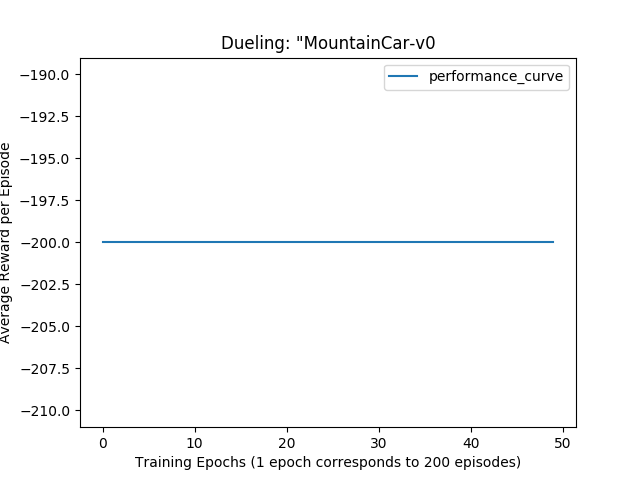
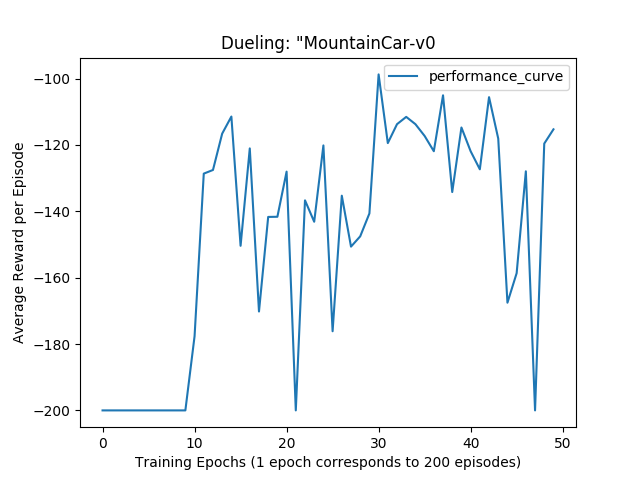
Finalized, includes dueling MC figures and parameter values: TODO, fix spacing on PDF

diff --git a/hw2_answer_template.tex b/hw2_answer_template.tex
@@ -476,14 +476,14 @@ In the weighted importance sampling, we see that the sample mean approaches a di
 \section*{Question 6 Programming Question}
     \begin{tcolorbox}[fit,height=22cm, width=\textwidth, blank, borderline={1pt}{-2pt},nobeforeafter]
     {\large 6.1, 6.2, 6.3 (a)}\\
-    *Dueling architecture's 2 streams were merged using equation (9) from [4].
+    {\large *Dueling architecture's 2 streams were merged using equation (9) from [4]. For MountainCar-v0 environment, the value and advantage stream shared the 3rd hidden layer of a DQN network in order to not thin out the backprop gradient over a fork in the network (*motivated by TA Nicholay Topkin).}
 	\begin{table}[H]
 		\centering
 		\caption{Implementation settings}
 		\begin{tabular}{|c|p{7.785em}|l|l|r|}
 			\cline{2-5}    \multicolumn{1}{r|}{} & Settings & \multicolumn{1}{p{7.93em}|}{DQN} & \multicolumn{1}{p{7.93em}|}{DDQN} & \multicolumn{1}{p{7.5em}|}{Dueling} \\
 			\hline
-			\multirow{10}[20]{*}{\begin{sideways}CartPole-v0\end{sideways}} & NN MLP Architecture  & \multicolumn{1}{p{7.93em}|}{2 hidden layers each of size 32 with relu activation} & \multicolumn{1}{p{7.93em}|}{2 hidden layers each of size 60 with relu activation} & \multicolumn{1}{p{7.93em}|}{2 streams with 1 relu hidden layer of size 128 each connected to 1 shared hidden layer of size 64 with relu, merged as noted.} \\
+			\multirow{10}[20]{*}{\begin{sideways}CartPole-v0\end{sideways}} & NN MLP Architecture  & \multicolumn{1}{p{7.93em}|}{2 hidden layers each of size 32 with relu activation} & \multicolumn{1}{p{7.93em}|}{2 hidden layers each of size 60 with relu activation} & \multicolumn{1}{p{7.93em}|}{2 streams with 1 relu hidden layer of size 128 each connected to 1 shared hidden layer of size 64 with relu, merged according to (9) from [4], (see HW refs).} \\
 			\cline{2-5}          & optimizer & \multicolumn{1}{p{7.93em}|}{Adam} & \multicolumn{1}{p{7.93em}|}{Adam} & \multicolumn{1}{p{7.93em}|}{Adam} \\
 			\cline{2-5}          & Burn-in transitions & 10000 & 10000 &  10000 \\
 			\cline{2-5}          & Initial epsilon & 0.5   & 1     & 0.5 \\
@@ -494,16 +494,16 @@ In the weighted importance sampling, we see that the sample mean approaches a di
 			\cline{2-5}          & steps before minibatch & 4     & 1     & 4 \\
 			\cline{2-5}          & learning rate & 0.0001 & 0.0001 &  0.0001 \\
 			\hline
-			\multirow{10}[20]{*}{\begin{sideways}MountainCar-v0\end{sideways}} & NN MLP Architecture  & \multicolumn{1}{p{7.93em}|}{3 hidden layers each of size 60 with relu activation} & \multicolumn{1}{p{7.93em}|}{3 hidden layers each of size 60 with relu activation} & \multicolumn{1}{p{7.93em}|}{2 streams with 1 relu hidden layer of size 64, sharing 3 hidden relu layers of size 64 each, streams merged as above} \\
+			\multirow{10}[20]{*}{\begin{sideways}MountainCar-v0\end{sideways}} & NN MLP Architecture  & \multicolumn{1}{p{7.93em}|}{3 hidden layers each of size 60 with relu activation} & \multicolumn{1}{p{7.93em}|}{3 hidden layers each of size 60 with relu activation} & \multicolumn{1}{p{7.93em}|}{2 streams with 1 linear hidden layer of size 64 each placed ontop of 3 hidden relu layers of size 64 each, then merged using (9) as above.} \\
 			\cline{2-5}          & optimizer & \multicolumn{1}{p{7.93em}|}{Adam} & \multicolumn{1}{p{7.93em}|}{Adam} & \multicolumn{1}{p{7.93em}|}{Adam} \\
 			\cline{2-5}          & Burn-in transitions & 10000 & 10000 & 10000 \\
-			\cline{2-5}          & Initial epsilon & 0.5   & 1     & 0.7  \\
+			\cline{2-5}          & Initial epsilon & 0.5   & 1     & 0.5  \\
 			\cline{2-5}          & Final epsilon & 0.1   & 0.1   &  0.1 \\
-			\cline{2-5}          & Exploration decay steps & \multicolumn{1}{p{7.93em}|}{$2\times10^5$} & \multicolumn{1}{p{7.93em}|}{$2\times10^5$} & \multicolumn{1}{p{7.93em}|}{$2\times10^4$} \\
+			\cline{2-5}          & Exploration decay steps & \multicolumn{1}{p{7.93em}|}{$2\times10^5$} & \multicolumn{1}{p{7.93em}|}{$2\times10^5$} & \multicolumn{1}{p{7.93em}|}{$2\times10^6$} \\
 			\cline{2-5}          & minibatch size & 32    & 32    & 32 \\
-			\cline{2-5}          & no. of steps until target network is updated & 100   & 100   & 20 \\
-			\cline{2-5}          & steps before minibatch & 4     & 4     & 16 \\
-			\cline{2-5}          & learning rate & 0.0001 & 0.00007 & 0.00007 \\
+			\cline{2-5}          & no. of steps until target network is updated & 100   & 100   & 16 \\
+			\cline{2-5}          & steps before minibatch & 4     & 4     & 4 \\
+			\cline{2-5}          & learning rate & 0.0001 & 0.00007 & 0.0004 \\
 			\hline
 		\end{tabular}%
 		\label{tab1}%
@@ -591,7 +591,7 @@ In the weighted importance sampling, we see that the sample mean approaches a di
     {\large Mountaincar-v0 Dueling training and performace plots:} \\
     \includegraphics[width=.5\textwidth]{figures/MC_dueling_training_curve}
     \includegraphics[width=.5\textwidth]{figures/MC_dueling_performance_curve}\\ 
-    The MC environment was quite difficult for the Dueling network. Hyperparameters tuned included the width of the 2 network streams and the shared layers, epsilon decay rate, learning rate, and optimizer. Also, we experimented with a hyperparameter included in the Atari DQN paper (arXiv), which was the number of frames skipped/over which to repeat previous actions. Ultimately, the best performing instance of the model could stumble upon epsidoe returns above -200 (in the range of [-80, -190] after 10 training epochs, however, this were sporadic enough that the average epoch returns remained close to -200. According to the performance plot, the Dueling network never learned to reach the goal with the best hyperparameters we used. However, with more tuning, we believe that the Dueling network shows promise of converging quicker than DDQN and DQN since on multiple occasions the Dueling model reached the flag sooner than trainig epoch 10. We expected Dueling network 2-stream architecture to again outperform DQN and DDQN as it did in terms of quicker convergence for the CarPole environment.
+    The MC environment was quite difficult for the Dueling network. Hyperparameters tuned included the width of the 2 network streams and the number of shared layers, epsilon decay rate, learning rate, and optimizer. Also, we experimented with a hyperparameter included in the Atari DQN paper (arXiv), which was the number of frames skipped/over which to repeat previous actions. Ultimately, the best performing instance of the model could reach the goal consistently after episode returns above -200 (i.e. rewarding it in the range of [-80, -190]) after only 10 training epochs. This is almost a factor of 3 times sooner than the other networks for this task. According to the performance plot, the Dueling network outperforms the DQN and DDQN from epoch 10 until it is overtaken around epoch 35 by both DQN and DDQN. The Dueling netowkr's performance curve also shows the most variance in its non-(-200) episode reward compared to the other networks, and we believe this could be improved with a smaller learning rate and by updating the target network ($\theta^{-}$, from DQN) more comparably often to the other networks in order to induce greatly stability in the loss as a function of the training epochs. In the end, the Dueling network outperformed in terms of convergence rate, but for the summary statistics in Table 30, it appears its high episodic return variance was a detriment. The other networks had smaller mean reward and smaller standard deviation for the test episodes.\\
     {\large 6.3 (d):} please refer to the submitted videos. \\
     {\large 6.3 (e):} The below table was generated using a \textbf{greedy} policy.
         \begin{table}[H]
@@ -603,7 +603,7 @@ In the weighted importance sampling, we see that the sample mean approaches a di
     		\hline
     		{\small CartPole Dueling} & \multicolumn{1}{l|}{\footnotesize 200.0 $\pm$ 0.0}  \\
     		\hline
-    		{\small MountainCar Dueling} & \multicolumn{1}{l|}{\footnotesize -200.0 $\pm$ 0.0} \\
+    		{\small MountainCar Dueling} & \multicolumn{1}{l|}{\footnotesize -133.01 $\pm$ 27.5672} \\
     		\hline
     	\end{tabular}%
     	\label{tab4}%
@@ -629,7 +629,7 @@ In the weighted importance sampling, we see that the sample mean approaches a di
     		\hline
     		{\small MountainCar DDQN} & \multicolumn{1}{l|}{-108.59 $\pm$ 9.8347} \\
     		\hline
-    		{\small MountainCar Dueling} & \multicolumn{1}{l|}{-200 $\pm$ 0.0} \\
+    		{\small MountainCar Dueling} & \multicolumn{1}{l|}{-133.01 $\pm$ 27.5672} \\
     		\hline
     	\end{tabular}%
     	\label{tab5}%
